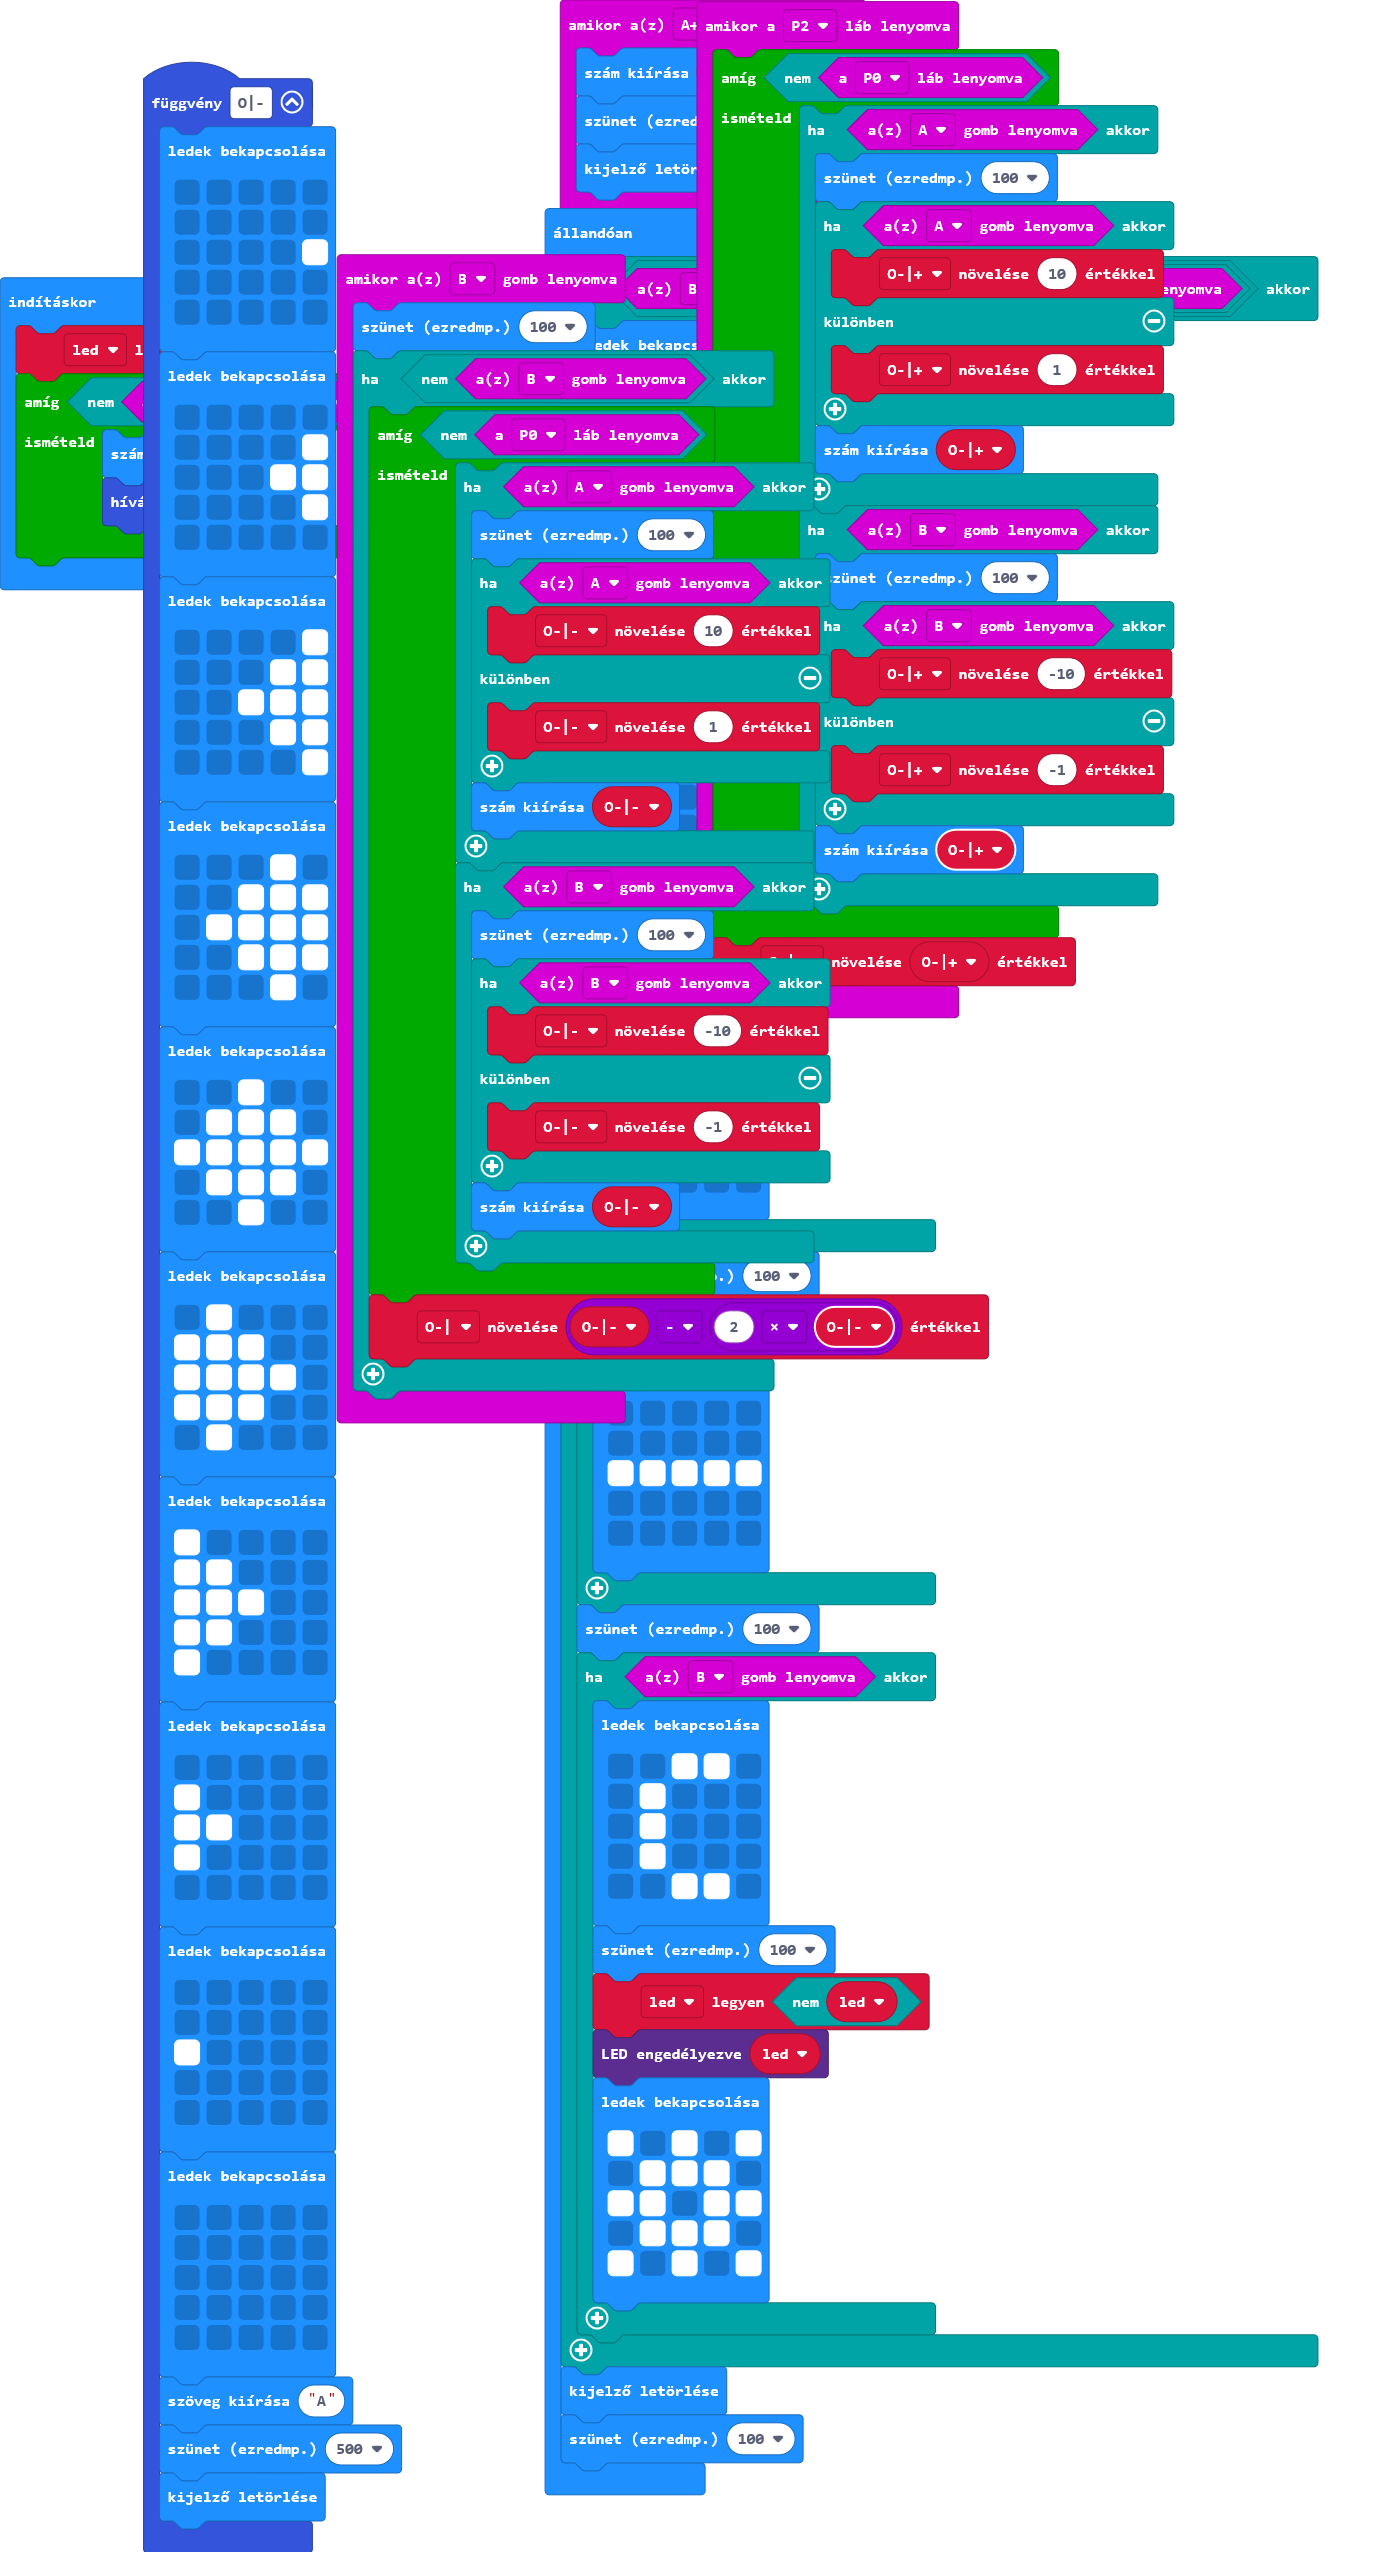
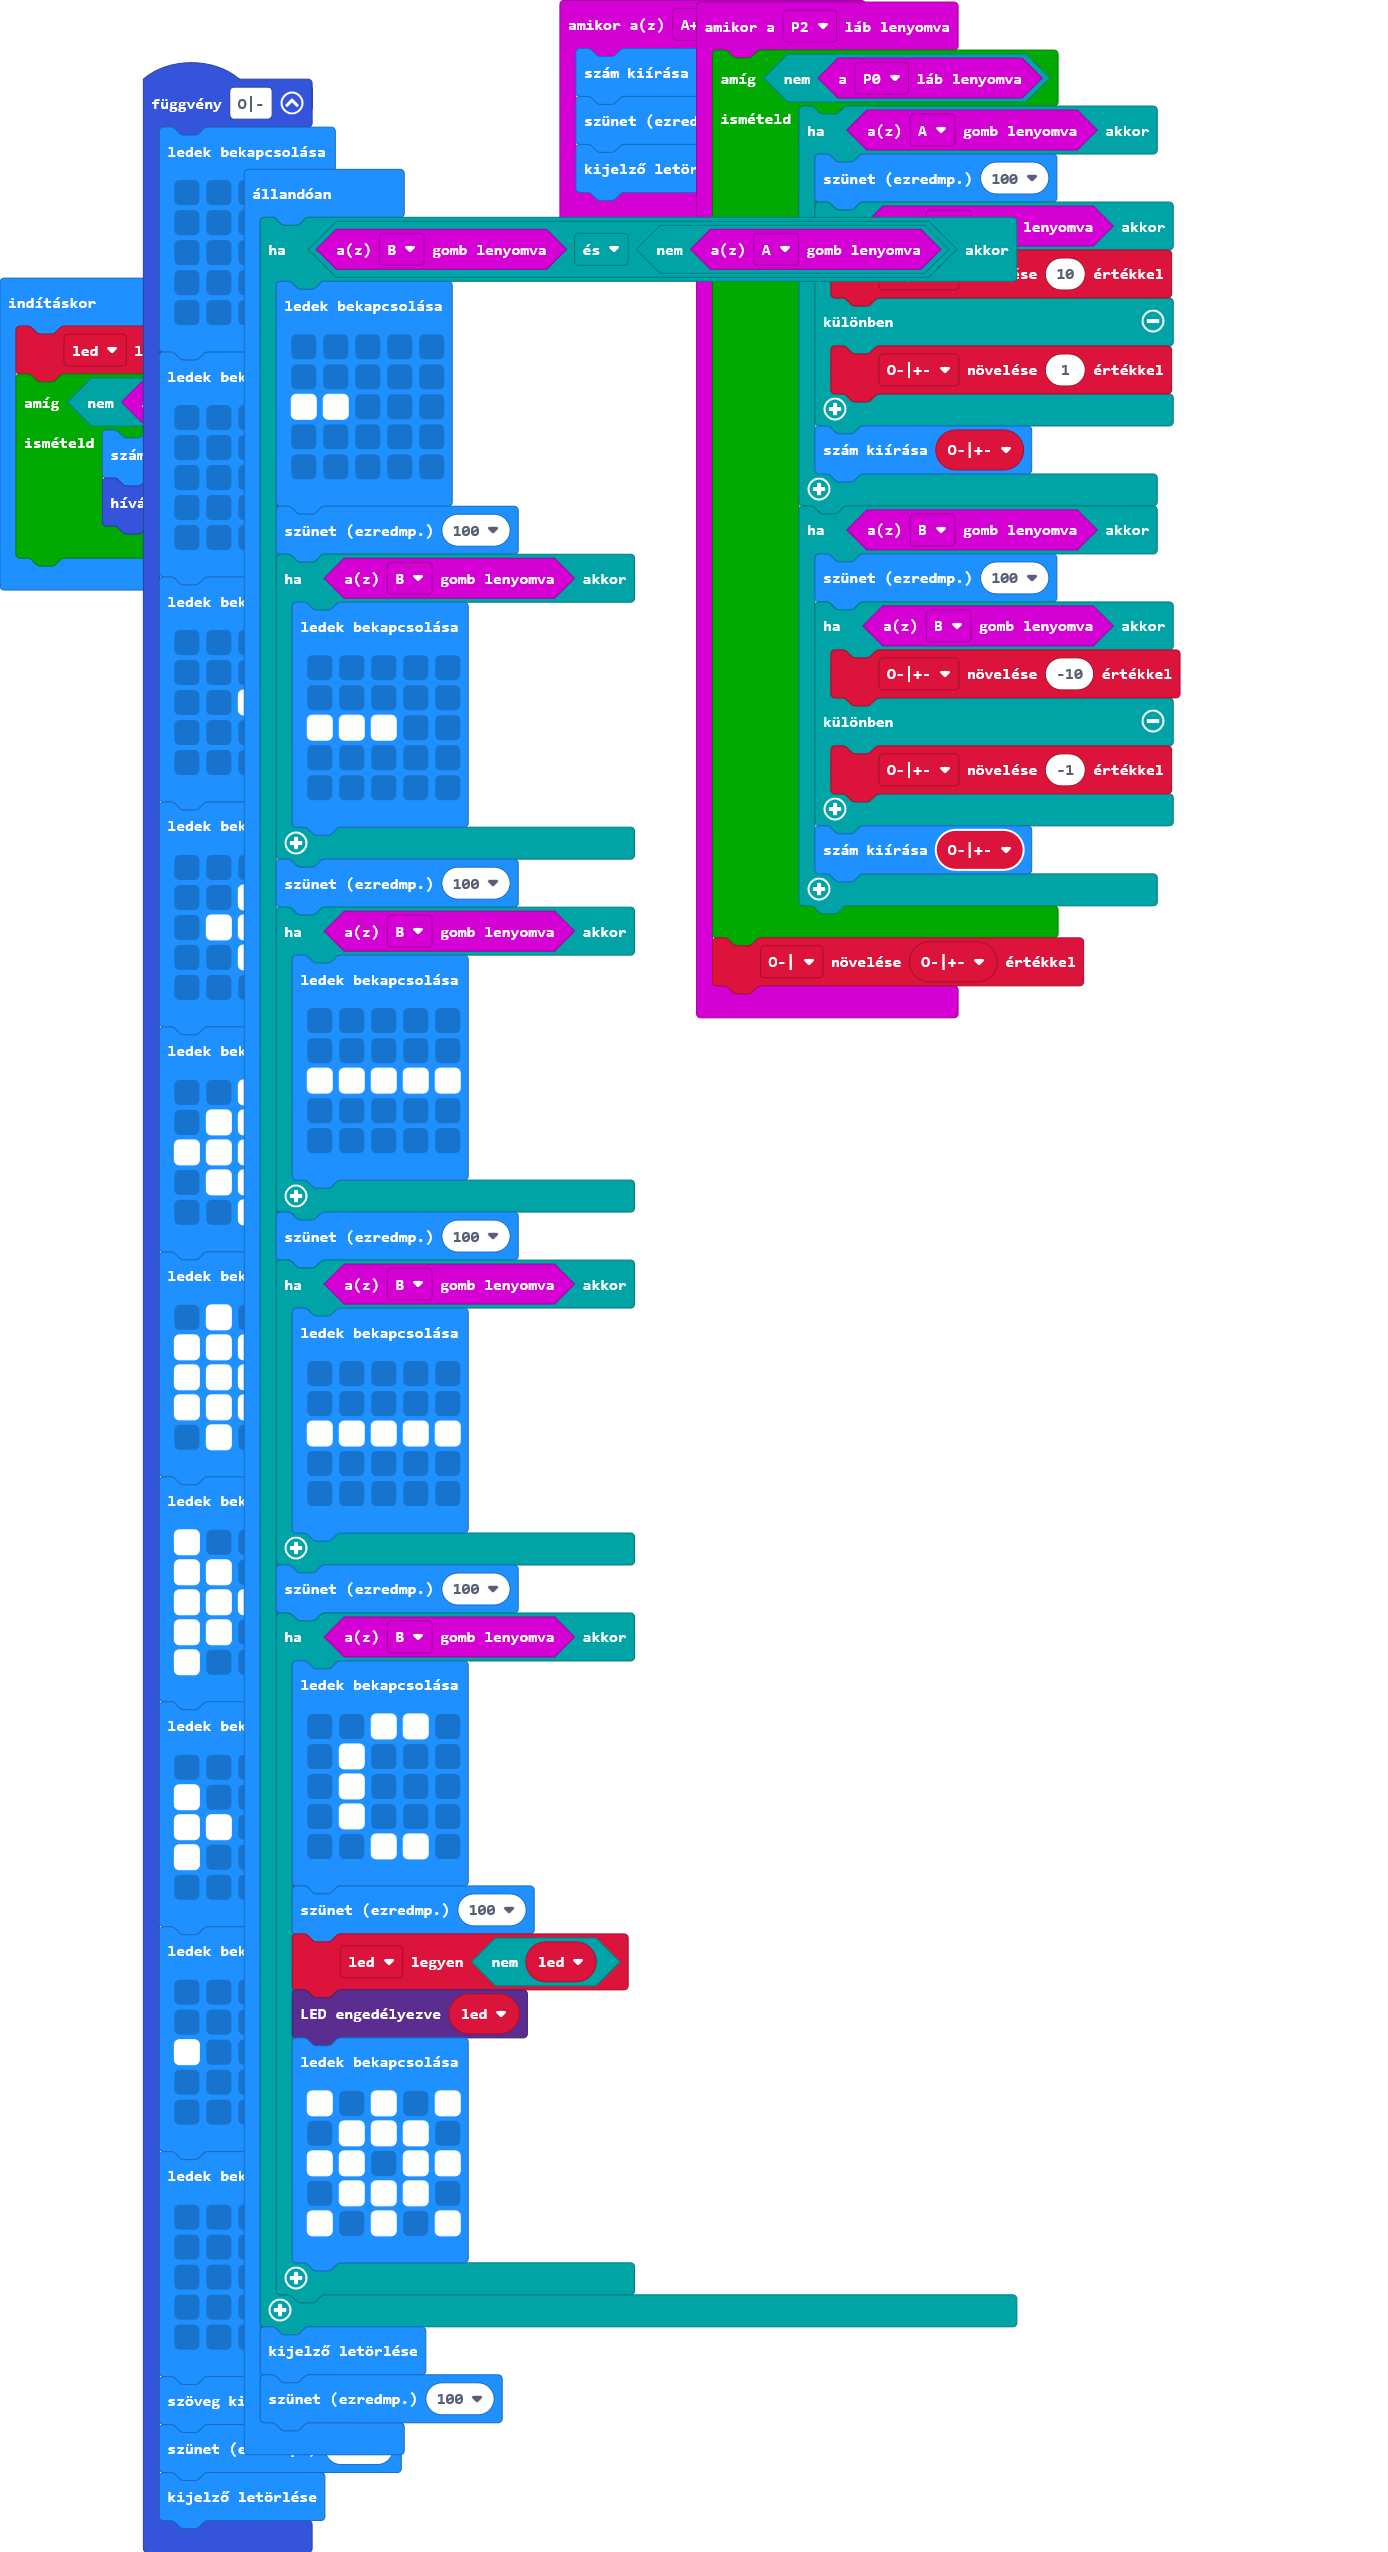
Update main.blocks, main.ts

diff --git a/main.ts b/main.ts
@@ -26,32 +26,6 @@ input.onButtonPressed(Button.AB, function () {
     basic.pause(100)
     basic.clearScreen()
 })
-input.onButtonPressed(Button.B, function () {
-    basic.pause(100)
-    if (!(input.buttonIsPressed(Button.B))) {
-        while (!(input.pinIsPressed(TouchPin.P0))) {
-            if (input.buttonIsPressed(Button.A)) {
-                basic.pause(100)
-                if (input.buttonIsPressed(Button.A)) {
-                    O4 += 10
-                } else {
-                    O4 += 1
-                }
-                basic.showNumber(O4)
-            }
-            if (input.buttonIsPressed(Button.B)) {
-                basic.pause(100)
-                if (input.buttonIsPressed(Button.B)) {
-                    O4 += -10
-                } else {
-                    O4 += -1
-                }
-                basic.showNumber(O4)
-            }
-        }
-        O3 += O4 - 2 * O4
-    }
-})
 function O () {
     basic.showLeds(`
         . . . . .
@@ -127,7 +101,6 @@ function O () {
     basic.pause(500)
     basic.clearScreen()
 }
-let O4 = 0
 let O3 = 0
 let O2 = 0
 let led2 = true
